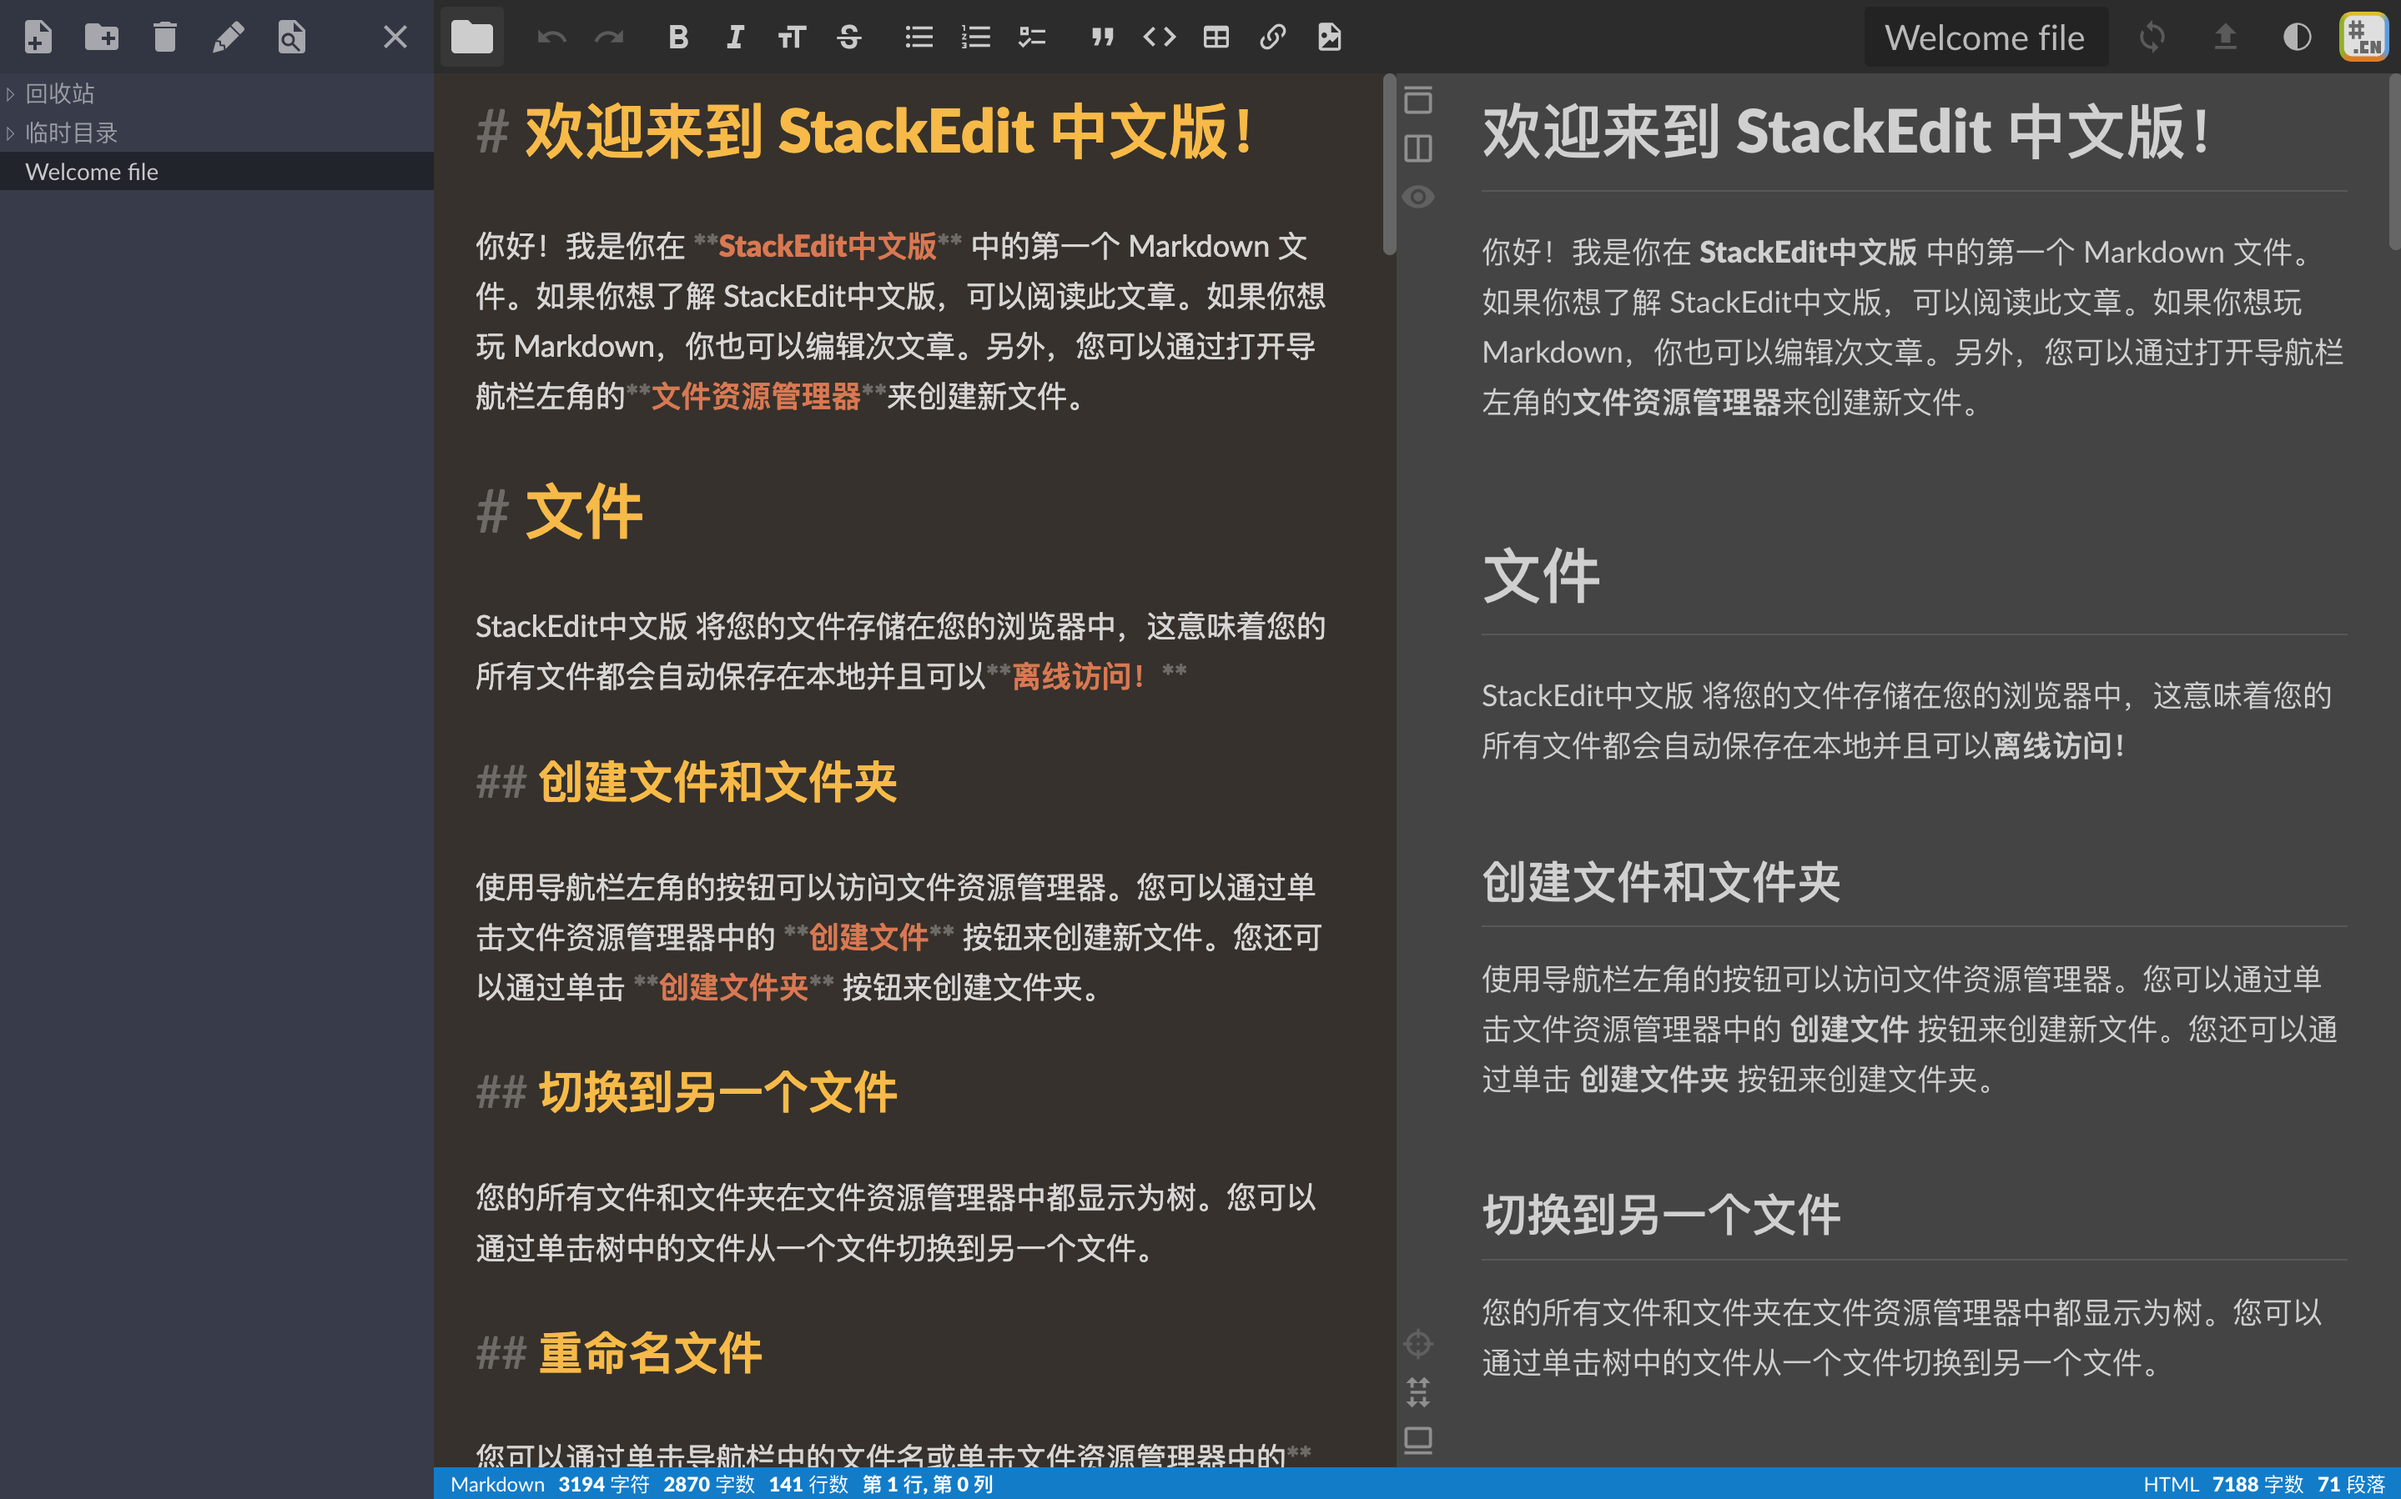
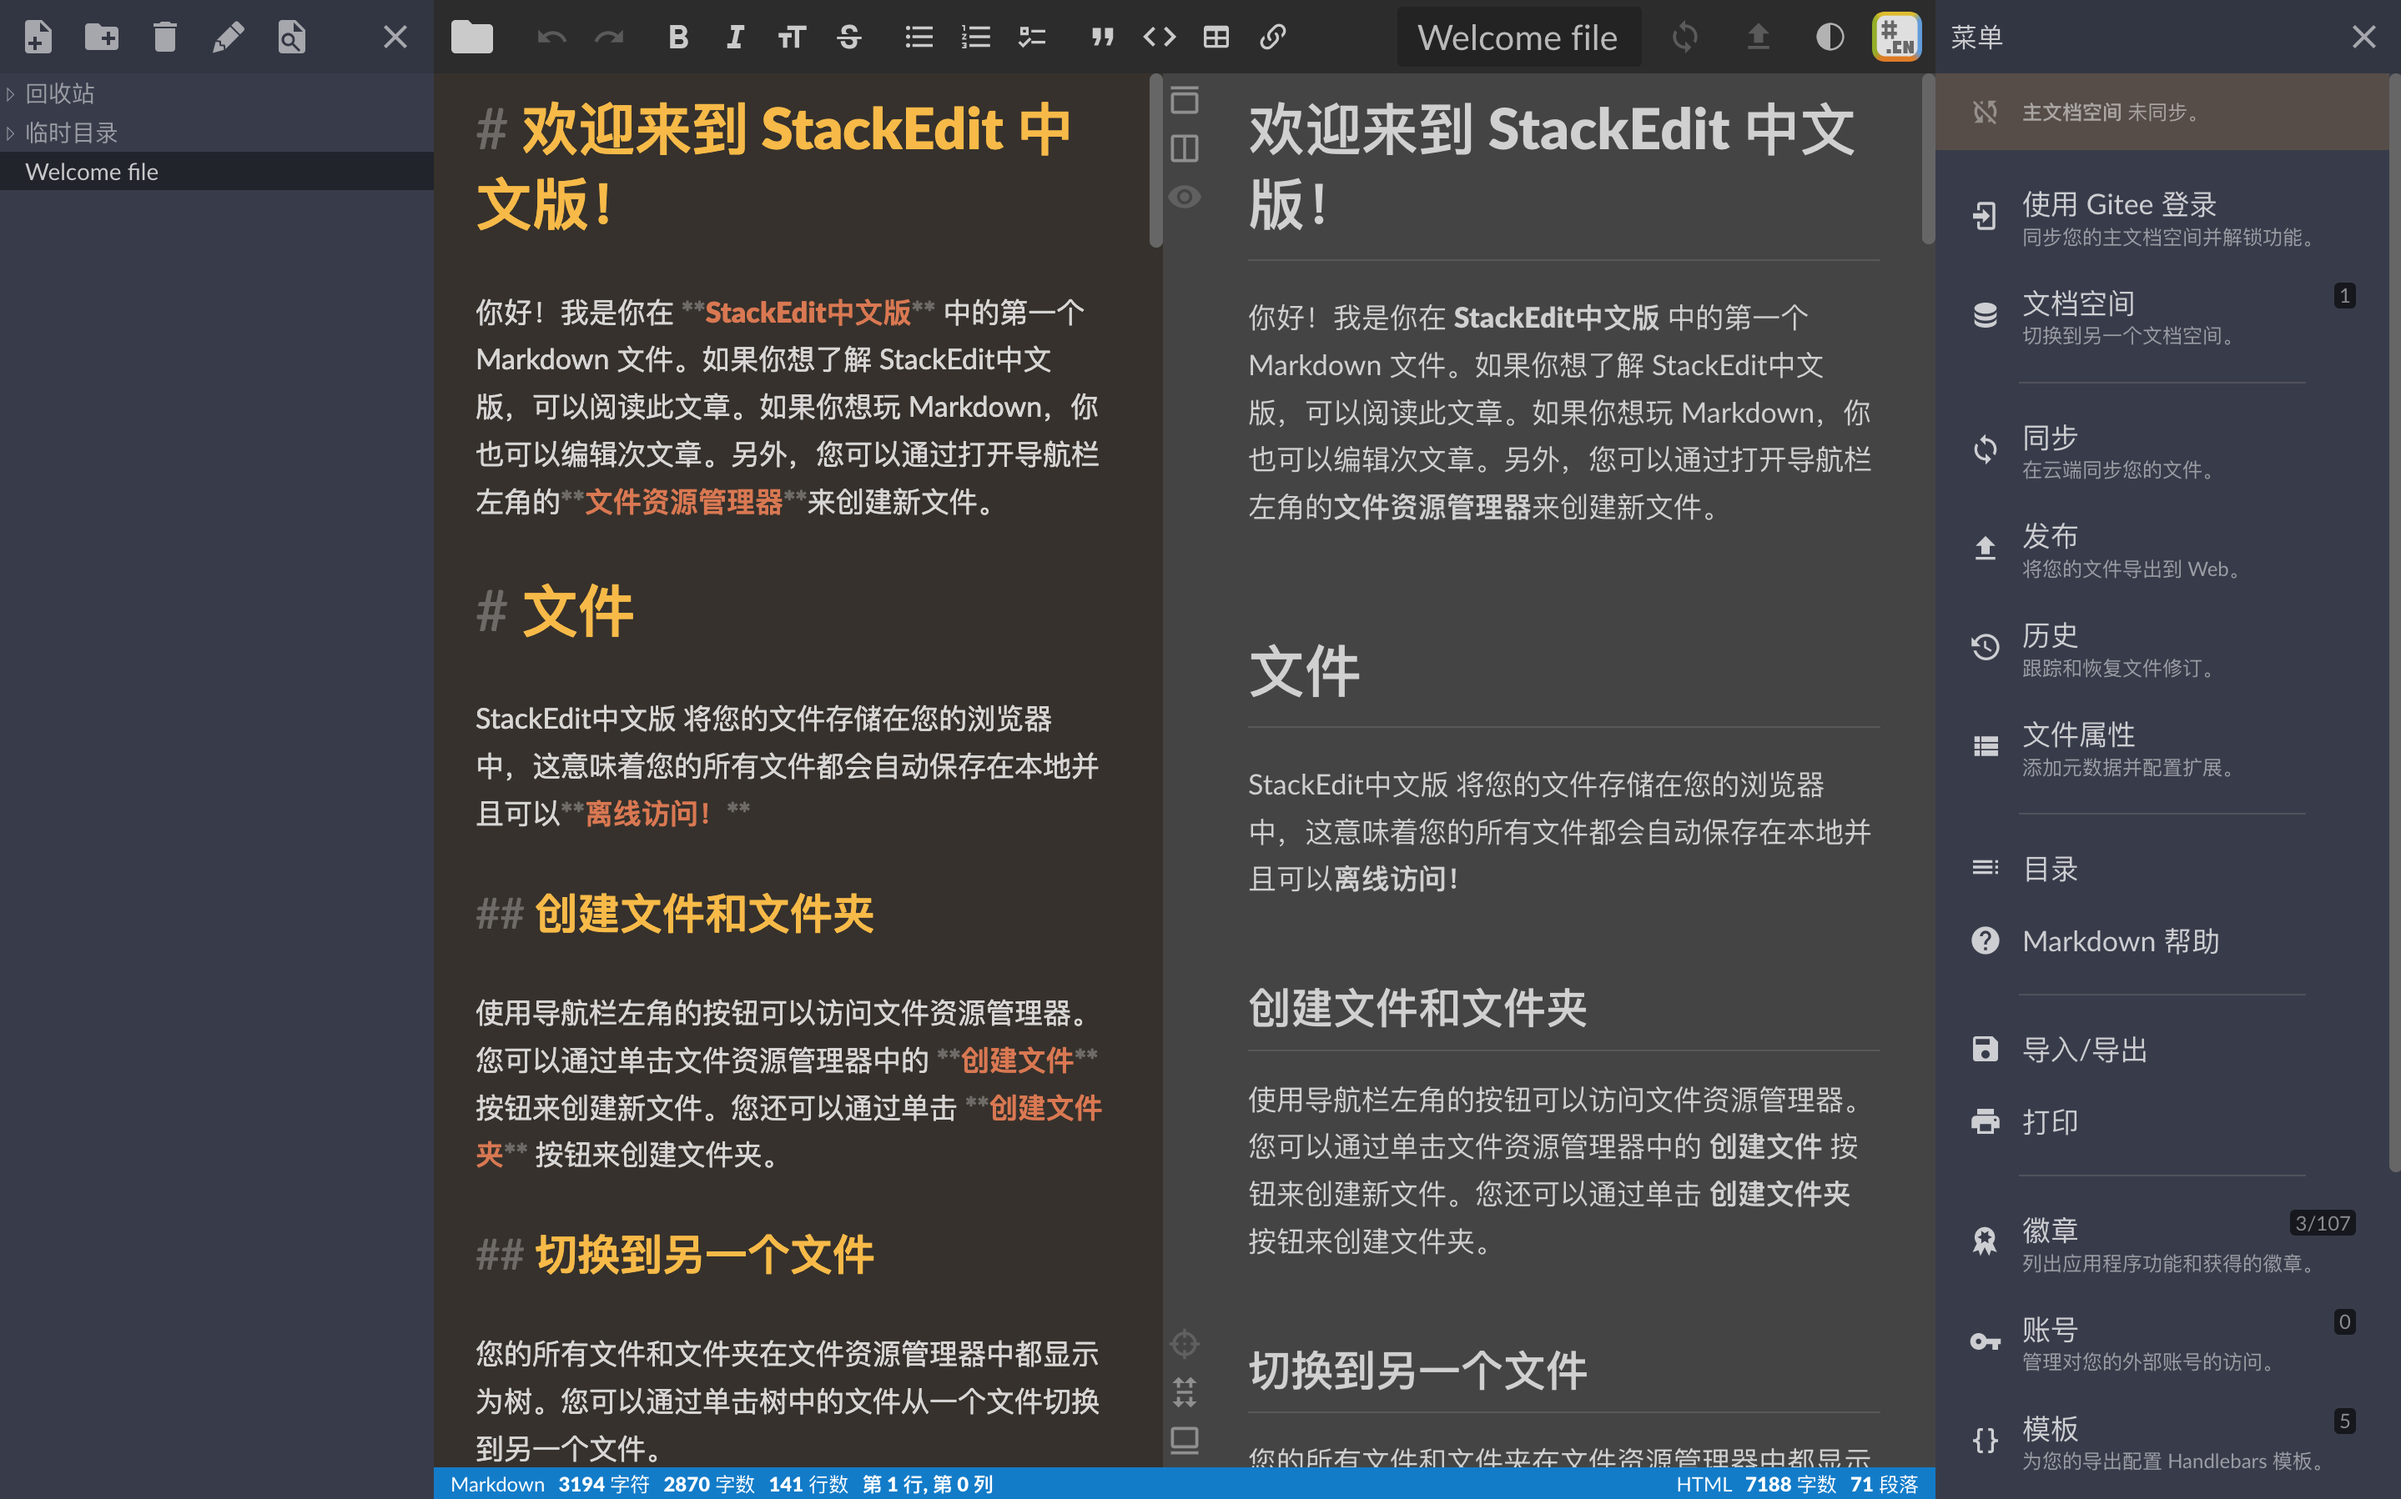
update image

diff --git a/README.md b/README.md
@@ -12,6 +12,15 @@ StackEdit中文版的docker镜像地址：[mafgwo/stackedit](https://hub.docker.
 **示例截图-亮色主题**
 ![](./images/light.png)
 
+**示例截图-支持的文档空间**
+![](./images/workspace.png)
+
+**示例截图-支持的图床**
+![](./images/imageBed.png)
+
+**示例截图-支持文件搜索**
+![](./images/fileSearch.png)
+
 ## 相比国外开源版本的区别：
 - 修复了Github授权登录问题
 - 支持了Gitee仓库（2022-05-25）
